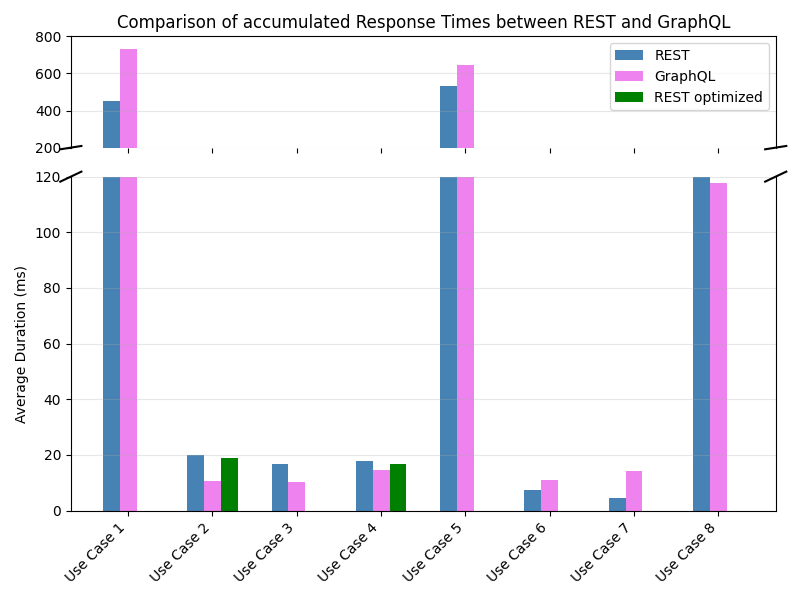
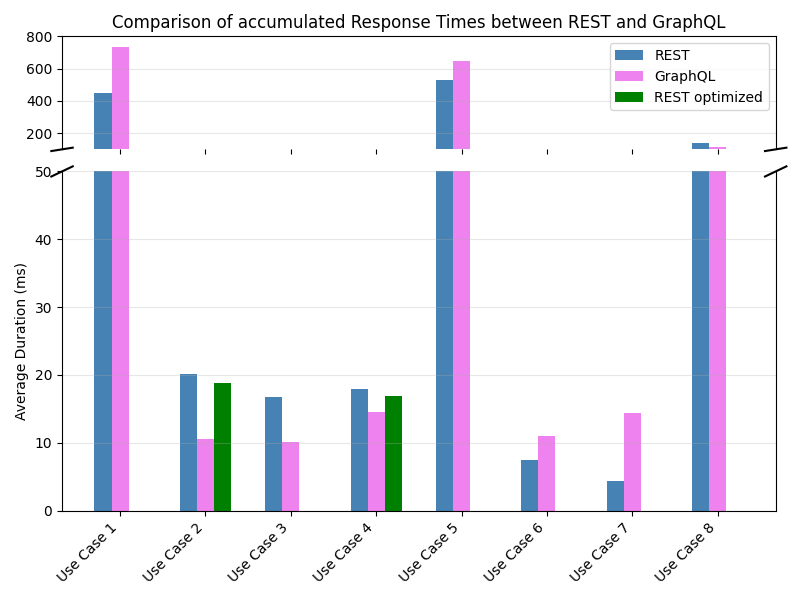
metrics refined

diff --git a/results/helpers/graphs_with_averages.py b/results/helpers/graphs_with_averages.py
@@ -36,8 +36,8 @@ def create_comparison_bargraph_for_sum_response_time(metric, use_cases, bar_widt
 
 
     # Set the y-axis limits to "break" the axis
-    ax1.set_ylim(200, 800)  # Top part of the y-axis (for larger values)
-    ax2.set_ylim(0, 120)      # Bottom part of the y-axis (for smaller values)
+    ax1.set_ylim(100, 800)  # Top part of the y-axis (for larger values)
+    ax2.set_ylim(0, 50)      # Bottom part of the y-axis (for smaller values)
 
     # Hide the spines between the two axes
     ax1.spines['bottom'].set_visible(False)
@@ -130,10 +130,10 @@ def create_comparison_bargraph_for_data_transmitted(metric, use_cases, bar_width
     bars_rest_opt2 = ax2.bar(use_cases + bar_width, rest_opt_data_kb, bar_width, label='REST optimized', color='green')
 
     # Set the y-axis limits to "break" the axis
-    ax1.set_ylim(1000, 1600)  # Top part of the y-axis (for larger values)
-    ax2.set_ylim(0, 150)      # Bottom part of the y-axis (for smaller values)
+    ax1.set_ylim(100, 1600)  # Top part of the y-axis (for larger values)
+    ax2.set_ylim(0, 30)      # Bottom part of the y-axis (for smaller values)
 
-    ax2.yaxis.set_ticks(np.arange(0, 151, 25))
+    ax2.yaxis.set_ticks(np.arange(0, 30, 5))
 
     # Hide the spines between the two axes
     ax1.spines['bottom'].set_visible(False)
